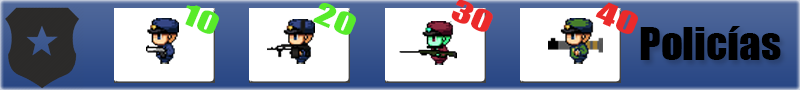
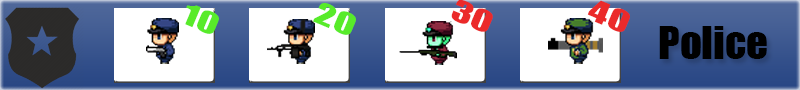
Police en inglés

Changed region(s): [[0.7188, 0.0, 1.0, 0.6667]]

diff --git a/core/src/org/e38/game/screens/MenuScreen.java b/core/src/org/e38/game/screens/MenuScreen.java
@@ -267,11 +267,11 @@ public class MenuScreen implements Screen {
             table.add(new Label(String.valueOf(level + 1), new Label.LabelStyle(new BitmapFont(), Color.BLACK)));
             table.add(new Label(String.valueOf(puntuaciones.get(level)), new Label.LabelStyle(new BitmapFont(), Color.BLACK)));
         }
-        rankingDialog.add(table);
-        rankingDialog.getContentTable().add(table).padTop(-70).padLeft(5);
+//        rankingDialog.add(table);
+        rankingDialog.getContentTable().add(table).padTop(-50).padLeft(5);
 
         Drawable drawable = new TextureRegionDrawable(new TextureRegion(World.getRecurses().buttonBg));
-        TextButton dbutton = new TextButton("Volver al menú", new TextButton.TextButtonStyle(drawable, drawable, drawable, new BitmapFont()));
+        TextButton dbutton = new TextButton("Back to menu", new TextButton.TextButtonStyle(drawable, drawable, drawable, new BitmapFont()));
         dbutton.getStyle().fontColor = Color.BLACK;
         dbutton.setSize(10, 10);
         rankingDialog.button(dbutton, true);
